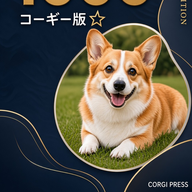
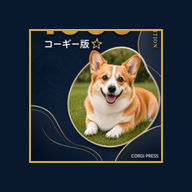
Add files via upload

diff --git a/index.html b/index.html
@@ -182,188 +182,203 @@ let questions=[],qi=0,mode='enja',answered=false,fillAnswer='',fillSentence='';
 function etymologyGuide(w){
   const en = String(w.en || "");
   const ja = String(w.ja || "");
-  const clean = en.replace(/[～~]/g,"").trim();
+  const clean = en.replace(/[～~]/g," ").replace(/\s+/g," ").trim();
   const lower = clean.toLowerCase();
 
-  // 「単語の意味を並べる」だけではなく、
-  // ①頭に浮かぶ場面 → ②単語の動き → ③熟語の意味
-  // の順で覚えられるようにする。
-  const special = {
-    "look forward to ～":"目線を「前（forward）」に向けて、これから来るものを待っている場面。→ 先の楽しみを待つ →「～を楽しみに待つ」",
-    "take care of ～":"care＝「注意・気づかい」を take＝「自分の側に持ってくる」。→ ～に注意を向けて面倒を見る →「～の世話をする」",
-    "give up ～":"up は「上へ」。手に持っていたものを上へ放り出して手放す場面。→「もう続けない」→「～をあきらめる」",
-    "give in":"in は「中へ」。抵抗していた人が相手側へ入ってしまう場面。→ 抵抗をやめる →「屈する」",
-    "get over ～":"over は「～を越えて」。目の前の山や障害を越えて向こう側へ行く場面。→ 障害を乗り越える →「～を克服する」",
-    "get through ～":"through は「～を通り抜けて」。トンネルを最後まで通り抜ける場面。→ 困難な期間を通り抜ける →「～を切り抜ける」",
-    "go through ～":"through は「～を通り抜けて」。自分がその中を実際に通っていく場面。→ 苦しい経験の中を通る →「～を経験する」",
-    "come up with ～":"up は「上へ」、with は「一緒に」。頭の中からアイデアを上へ持ち上げ、手元に持ってくる感じ。→「アイデアを思いつく」",
-    "find out ～":"out は「外へ」。隠れていた情報を外へ引っぱり出して見つける場面。→ 調べて真相を出す →「～を知る・見つけ出す」",
-    "figure out ～":"figure は「数字・形を考える」、out は「外へ」。頭の中で考え抜いて答えを外に出す感じ。→「理解する・解決する」",
-    "point out ～":"point は指を「指す」。out は「外へ」。大事なところを外に向けて指し示す場面。→「～を指摘する」",
-    "put off ～":"off は「離れて」。予定していたことをいったん遠くへ押しやる場面。→「～を延期する」",
-    "put on ～":"on は「接触して」。服を体に乗せてくっつける場面。→「～を身につける」",
-    "take off ～":"off は「離れて」。身についた服を体から離す場面。→「～を脱ぐ」。飛行機なら地面から離れるので「離陸する」",
-    "turn on ～":"on は「接触・作動」。スイッチをカチッと入れて機械を作動させる場面。→「～をつける」",
-    "turn off ～":"off は「離れて・停止」。スイッチを切って作動状態から離す場面。→「～を消す・止める」",
-    "set up ～":"up は「上へ・完成した状態へ」。材料を立てたり配置したりして、使える状態まで作り上げる場面。→「～を設立する・準備する」",
-    "pick up ～":"up は「上へ」。床などにある物をつまんで持ち上げる場面。→「拾う」。人なら「車などに乗せる」",
-    "carry out ～":"carry は「運ぶ」、out は「外へ」。考えや計画を頭の中だけに置かず、外へ運び出して実際に行う感じ。→「～を実行する」",
-    "bring about ～":"bring は「持ってくる」、about は「周りへ」。ある結果をこちらへ持ってくる感じ。→「～を引き起こす」",
-    "call off ～":"call は「呼ぶ」、off は「離す・取り消す」。予定していたものを呼び戻して、その場から外す感じ。→「～を中止する」",
-    "do away with ～":"do away は「なくしてしまう」というまとまり。邪魔なものをその場から消してしまう場面。→「～を取り除く・廃止する」",
-    "put up with ～":"up は「上へ」、with は「一緒に」。嫌なものを「一緒に抱えて」持ち上げたまま耐える感じ。→「～を我慢する」",
-    "look into ～":"into は「～の中へ」。箱の中をのぞき込むように、問題の中身を詳しく見る場面。→「～を調べる」",
-    "look for ～":"for は「～を求めて」。目的のものを探して目を動かしている場面。→「～を探す」",
-    "ask for ～":"for は「～を求めて」。欲しいものに向かって「ください」と求める場面。→「～を求める」",
-    "depend on ～":"depend は「ぶら下がる」イメージ。on は「～に接して」。何かにぶら下がって支えてもらう場面。→「～に頼る・～しだいである」",
-    "rely on/upon ～":"rely は「頼る」。on は「～に乗って」。何かに体重を預けて支えてもらう場面。→「～に頼る」",
-    "focus on ～":"focus は「焦点を合わせる」。on は「～に向けて」。カメラのピントを一点に合わせる場面。→「～に集中する」",
-    "consist of ～":"consist は「成り立つ」、of は「～から」。全体を開けてみると、その中身が部品として入っている場面。→「～から成り立っている」",
-    "be afraid of ～":"afraid は「怖がっている状態」。of は「その恐怖の対象」を指す。→「～を恐れている」",
-    "be interested in ～":"interested は「興味を向けている状態」。in は「～の中に」。興味がその世界の中に入り込んでいる感じ。→「～に興味がある」",
-    "be good at ～":"good は「うまい・得意」。at は「その対象に向けて」。ある対象に対して力を発揮できる場面。→「～が得意である」",
-    "pay attention to ～":"attention は「注意」。pay は「支払う」。注意というコインを対象に支払う感じ。→「～に注意を払う」",
-    "fall in love with ～":"fall は「落ちる」。in は「～の中へ」。love の中へストンと落ちる場面。→「恋に落ちる・大好きになる」",
-    "make up one's mind":"make は「作る」。mind は「心・考え」。頭の中に結論を作って固定する場面。→「決心する」",
-    "make sense":"sense は「意味・道理」。make＝「作る」なので、バラバラの情報が「意味のある形になる」感じ。→「意味をなす・筋が通る」",
-    "make a mistake":"mistake は「間違い」。make は「作る」。意図せず「間違いを作ってしまう」感じ。→「間違いをする」",
-    "take place":"place は「場所」。take＝「取る・占める」。出来事がその場所を取る＝その場で起こるイメージ。→「起こる・催される」",
-    "keep one's promise/word":"keep は「保つ・守る」。promise/word は「約束」。約束をそのまま守り続ける場面。→「約束を守る」",
-    "get lost":"get は「～の状態になる」。lost は「道を失った」。→「道に迷った状態になる」→「道に迷う」",
-    "be likely to do":"likely は「ありそうな」。未来へ向かう可能性が高い状態。→「…しそうである」",
-    "be about to do":"about to do は「今まさに～へ向かうところ」。行動の直前に立っている場面。→「今にも…しようとしている」",
-    "used to do/be":"昔はその状態・習慣が続いていたが、今はもう違う、という「過去の定位置」を思い浮かべる。→「昔は～したものだった」"
-  };
-
+  // 語源・イメージ解説の方針
+  // ①中心となる動詞そのものの基本イメージ
+  // ②前置詞・副詞などの基本イメージ
+  // ③それらが熟語の中でどう組み合わさるか
+  // ④実際の熟語の意味・使われ方
+  // ※分かりにくい説明や、意味につながらない豆知識は省く。
   const verbImages = {
-    be:["be","「～である・～の状態にある」","その状態にいる"],
-    look:["look","「目を向ける」","目線を向ける"],
-    take:["take","「手に取る」","自分の側へ取る"],
-    give:["give","「手渡す」","相手側へ渡す"],
-    get:["get","「手に入れる・状態になる」","何かを得る／ある状態になる"],
-    go:["go","「行く」","その方向へ進む"],
-    come:["come","「来る」","こちらへ近づく"],
-    put:["put","「置く」","ある場所に置く"],
-    make:["make","「作る」","何かを形にする"],
-    bring:["bring","「持ってくる」","こちらへ運ぶ"],
-    carry:["carry","「運ぶ」","ある場所から別の場所へ運ぶ"],
-    keep:["keep","「保つ・持ち続ける」","そのまま維持する"],
-    hold:["hold","「持つ・支える」","手で支えている"],
-    set:["set","「置く・整える」","位置を決めて整える"],
-    turn:["turn","「向きを変える・回す」","方向を変える"],
-    break:["break","「壊す・破る」","つながりを切る"],
-    call:["call","「呼ぶ」","声をかけて呼び寄せる"],
-    run:["run","「走る・動く」","動き続ける"],
-    stand:["stand","「立つ」","その場に立っている"],
-    fall:["fall","「落ちる」","下へ落ちる"],
-    find:["find","「見つける」","隠れていたものを発見する"],
-    think:["think","「考える」","頭の中で思い浮かべる"],
-    care:["care","「気にかける」","注意を向けて世話する"],
-    ask:["ask","「尋ねる・求める」","相手に求める"],
-    pay:["pay","「支払う」","代わりに何かを差し出す"],
-    play:["play","「演じる・行う」","役割を演じる"],
-    lead:["lead","「導く・先頭に立つ」","前へ導く"],
-    depend:["depend","「ぶら下がる・頼る」","何かに支えてもらう"],
-    rely:["rely","「頼る」","相手に体重を預ける"],
-    focus:["focus","「焦点を合わせる」","一点にピントを合わせる"],
-    refer:["refer","「向ける・言及する」","話題をある対象へ向ける"],
-    consist:["consist","「成り立つ」","いくつかの要素で全体を作る"],
-    prepare:["prepare","「準備する」","先に整えておく"],
-    search:["search","「探す」","目的物を探し回る"],
-    succeed:["succeed","「成功する・後に続く」","目標に届く"],
-    contribute:["contribute","「差し出す・貢献する」","全体のために何かを出す"],
-    prevent:["prevent","「防ぐ」","前に立って進行を止める"],
-    remind:["remind","「思い出させる」","記憶をもう一度呼び戻す"],
-    regard:["regard","「みなす・見る」","あるものを別の見方で見る"],
-    associate:["associate","「結びつける」","2つを一緒に思い浮かべる"],
-    inform:["inform","「知らせる」","情報を相手に渡す"]
+    be:["be","～である・～の状態にある"],
+    look:["look","目を向ける・見る"],
+    take:["take","手に取る・受け取る"],
+    give:["give","与える・手渡す"],
+    get:["get","手に入れる・～の状態になる"],
+    go:["go","行く・進む"],
+    come:["come","来る・近づく"],
+    put:["put","置く"],
+    make:["make","作る・～にする"],
+    bring:["bring","持ってくる・もたらす"],
+    carry:["carry","運ぶ"],
+    keep:["keep","保つ・持ち続ける"],
+    hold:["hold","持つ・支える"],
+    set:["set","置く・整える"],
+    turn:["turn","向きを変える・回す"],
+    break:["break","壊す・破る"],
+    call:["call","呼ぶ"],
+    run:["run","走る・動く"],
+    stand:["stand","立つ"],
+    fall:["fall","落ちる"],
+    find:["find","見つける"],
+    think:["think","考える・思う"],
+    care:["care","気にかける・気にする"],
+    ask:["ask","尋ねる・求める"],
+    pay:["pay","支払う"],
+    play:["play","演じる・行う"],
+    lead:["lead","導く・先頭に立つ"],
+    depend:["depend","頼る・～次第である"],
+    rely:["rely","頼る"],
+    focus:["focus","焦点を合わせる・集中させる"],
+    refer:["refer","向ける・言及する"],
+    consist:["consist","成り立つ"],
+    prepare:["prepare","準備する"],
+    search:["search","探す・捜す"],
+    succeed:["succeed","成功する・後に続く"],
+    contribute:["contribute","差し出す・貢献する"],
+    prevent:["prevent","防ぐ・妨げる"],
+    remind:["remind","思い出させる"],
+    regard:["regard","みなす・見る"],
+    associate:["associate","結びつける"],
+    inform:["inform","知らせる"],
+    suffer:["suffer","苦しむ・被る"],
+    result:["result","結果として生じる"],
+    graduate:["graduate","卒業する"],
+    differ:["differ","異なる"],
+    recover:["recover","回復する・取り戻す"],
+    hear:["hear","聞く"],
+    believe:["believe","信じる"],
+    major:["major","専攻する"],
+    abound:["abound","たくさんある・豊富である"],
+    insist:["insist","強く主張する"],
+    concentrate:["concentrate","集中する"],
+    complain:["complain","不平を言う・訴える"],
+    die:["die","死ぬ"],
+    amount:["amount","総計～になる"],
+    recover:["recover","回復する・立ち直る"]
   };
 
   const prepImages = {
-    to:["to","「～へ・～に」","矢印が対象へ向かう ↗"],
-    of:["of","「～の・～を対象として」","対象とのつながりを示す"],
-    on:["on","「～の上に・～に接して」","何かに乗る／接する"],
-    upon:["upon","「on と同じく接して」","対象の上・接点に乗る"],
-    in:["in","「～の中に・～の状態で」","箱の中に入るイメージ 📦"],
-    at:["at","「～に・～の地点で」","一点をピンポイントで指す 🎯"],
-    for:["for","「～のために・～を求めて」","目的へ向かう矢印 →"],
-    from:["from","「～から」","出発点から離れる ←"],
-    with:["with","「～と一緒に」","2つを一緒にする 🤝"],
-    about:["about","「～について・周りに」","対象の周りをぐるっと見る"],
-    into:["into","「～の中へ」","外から中へ入る ↘"],
-    over:["over","「～を越えて・上を」","山を越えて向こう側へ ⛰"],
-    through:["through","「～を通り抜けて」","トンネルを端から端まで通る"],
-    off:["off","「離れて・停止して」","くっついた所から離れる"],
-    up:["up","「上へ・完成した状態へ」","下から上へ持ち上げる ↑"],
-    down:["down","「下へ・落ち着いて」","上から下へ下がる ↓"],
-    after:["after","「～の後に・追って」","前を追いかける"],
-    before:["before","「～の前に」","時間・位置の前に立つ"],
-    against:["against","「～に対して・反して」","壁などにぶつかる／逆らう"],
-    by:["by","「～によって・そばに」","そばの人・手段を使う"],
-    along:["along","「～に沿って」","道に沿って進む"],
-    around:["around","「～の周りに」","ぐるっと囲む"],
-    ahead:["ahead","「前方に・先に」","前方の地点を見る ↗"],
-    apart:["apart","「離れて」","2つが離れる ↔"],
-    aside:["aside","「脇へ」","本線から横へよける"],
-    within:["within","「～以内に・内側に」","境界線の内側にいる"],
-    despite:["despite","「～にもかかわらず」","障害があっても進む"]
+    to:["to","～へ・～に","対象へ向かう"],
+    of:["of","～の・～を対象として","対象とのつながりを示す"],
+    on:["on","～の上に・～に接して","対象に乗る・接する"],
+    upon:["upon","～の上に・～に接して","on と同じく対象に接する"],
+    in:["in","～の中に・～の状態で","中に入る"],
+    at:["at","～に・～の地点で","一点に向ける"],
+    for:["for","～のために・～を求めて","目的・対象へ向かう"],
+    from:["from","～から","出発点から離れる"],
+    with:["with","～と一緒に・～を伴って","対象と一緒にする"],
+    about:["about","～について・～の周りに","対象を中心にする"],
+    into:["into","～の中へ","外から中へ入る"],
+    over:["over","～を越えて・～の上を","上を越えて向こう側へ行く"],
+    through:["through","～を通り抜けて","中を通って反対側へ行く"],
+    off:["off","離れて・停止して","接触した状態から離れる"],
+    up:["up","上へ・完成した状態へ","上へ／完成へ向かう"],
+    down:["down","下へ・落ち着いて","下へ／落ち着いた状態へ向かう"],
+    after:["after","～の後に・～を追って","後ろから追う"],
+    before:["before","～の前に","前に位置する"],
+    against:["against","～に対して・反して","対象にぶつかる／逆らう"],
+    by:["by","～によって・～のそばに","手段・そばの対象を示す"],
+    along:["along","～に沿って","線や道に沿って進む"],
+    around:["around","～の周りに","周囲を回る"],
+    within:["within","～以内に・～の内側に","境界の内側にいる"]
   };
 
-  const parts = [];
+  const special = {
+    "look forward to": {verb:"look", prep:"to", middle:"目を向ける先を forward（前）に置く", use:"これから来るものへ目を向けて待つので、「～を楽しみに待つ」という意味で使われる。"},
+    "take care of": {verb:"take", prep:"of", middle:"take（手に取る）＋care（気づかい）で、対象への気づかいを引き受ける", use:"人や物の面倒を引き受ける場面で「～の世話をする／～に気をつける」と使われる。"},
+    "give up": {verb:"give", prep:"up", middle:"give（手渡す）＋up（上へ・手放す方向）で、持っているものを手放す", use:"続けていたことを手放す場面で「～をあきらめる／やめる」と使われる。"},
+    "get over": {verb:"get", prep:"over", middle:"get（～の状態になる）＋over（～を越えて）で、障害の向こう側へ移る", use:"困難や病気などを乗り越えて回復する場面で「～を克服する」と使われる。"},
+    "get through": {verb:"get", prep:"through", middle:"get（～の状態になる）＋through（通り抜けて）で、困難の中を通り抜ける", use:"困難な期間を無事に通り抜ける場面で「～を切り抜ける」と使われる。"},
+    "go through": {verb:"go", prep:"through", middle:"go（行く）＋through（通り抜けて）で、その中を通っていく", use:"経験や苦しい出来事の中を通る場面で「～を経験する」と使われる。"},
+    "come up with": {verb:"come", prep:"up", middle:"come（来る）＋up（上へ）で、考えが頭の中から上がってくる。with は「一緒に」", use:"考えやアイデアが出てきて、それを持ってくる場面で「～を思いつく」と使われる。"},
+    "find out": {verb:"find", prep:"out", middle:"find（見つける）＋out（外へ）で、隠れていた情報を外へ出して見つける", use:"調べて事実や答えを知る場面で「～を知る／見つけ出す」と使われる。"},
+    "figure out": {verb:"figure", prep:"out", middle:"figure（考えて答えを出す）＋out（外へ）で、考えた結果を答えとして外へ出す", use:"問題の答えや意味を考えて分かる場面で「～を理解する／解決する」と使われる。"},
+    "point out": {verb:"point", prep:"out", middle:"point（指す）＋out（外へ）で、大事な点を外に向けて示す", use:"重要なことを相手にはっきり示す場面で「～を指摘する」と使われる。"},
+    "put off": {verb:"put", prep:"off", middle:"put（置く）＋off（離れて）で、予定していたことを遠くへ置く", use:"予定を先へ延ばす場面で「～を延期する」と使われる。"},
+    "put on": {verb:"put", prep:"on", middle:"put（置く）＋on（接して）で、体に何かを置いて接触させる", use:"服などを身につける場面で「～を着る／身につける」と使われる。"},
+    "take off": {verb:"take", prep:"off", middle:"take（手に取る）＋off（離れて）で、身についたものを体から離す", use:"服なら「～を脱ぐ」、飛行機なら地面から離れるので「離陸する」と使われる。"},
+    "turn on": {verb:"turn", prep:"on", middle:"turn（向きを変える・作動させる）＋on（接して）で、作動する側へ切り替える", use:"スイッチなどを作動させる場面で「～をつける」と使われる。"},
+    "turn off": {verb:"turn", prep:"off", middle:"turn（向きを変える）＋off（離れて・停止して）で、作動状態から切り離す", use:"スイッチなどを停止させる場面で「～を消す／止める」と使われる。"},
+    "set up": {verb:"set", prep:"up", middle:"set（置く・整える）＋up（完成した状態へ）で、使える形に整える", use:"設備や組織などを作って使える状態にする場面で「～を設立する／準備する」と使われる。"},
+    "pick up": {verb:"pick", prep:"up", middle:"pick（つまみ取る）＋up（上へ）で、下にあるものをつまんで持ち上げる", use:"物なら「拾う」、人なら「車などに乗せる」という意味で使われる。"},
+    "carry out": {verb:"carry", prep:"out", middle:"carry（運ぶ）＋out（外へ）で、考えや計画を外へ運び出す", use:"計画などを実際の行動に移す場面で「～を実行する」と使われる。"},
+    "bring about": {verb:"bring", prep:"about", middle:"bring（もたらす）＋about（周り・対象へ）で、ある結果をもたらす", use:"変化や結果を起こす場面で「～を引き起こす」と使われる。"},
+    "look into": {verb:"look", prep:"into", middle:"look（見る）＋into（中へ）で、中をのぞき込む", use:"問題の中身を詳しく調べる場面で「～を調べる」と使われる。"},
+    "look for": {verb:"look", prep:"for", middle:"look（目を向ける）＋for（～を求めて）で、目的のものへ目を向けて探す", use:"目的の人・物を探す場面で「～を探す」と使われる。"},
+    "ask for": {verb:"ask", prep:"for", middle:"ask（求める）＋for（～を求めて）で、対象を求める", use:"物や助けなどを相手に求める場面で「～を求める」と使われる。"},
+    "depend on": {verb:"depend", prep:"on", middle:"depend（頼る）＋on（～に接して）で、対象に支えてもらう", use:"何かに頼ったり、条件によって決まったりする場面で「～に頼る／～次第である」と使われる。"},
+    "rely on": {verb:"rely", prep:"on", middle:"rely（頼る）＋on（～に接して）で、対象に支えてもらう", use:"人や物を頼りにする場面で「～に頼る」と使われる。"},
+    "focus on": {verb:"focus", prep:"on", middle:"focus（焦点を合わせる）＋on（～に向けて）で、対象に焦点を合わせる", use:"注意や意識を一つの対象へ集中させる場面で「～に集中する」と使われる。"},
+    "consist of": {verb:"consist", prep:"of", middle:"consist（成り立つ）＋of（～から）で、何が材料・構成要素なのかを示す", use:"全体が何からできているかを説明する場面で「～から成り立っている」と使われる。"},
+    "pay attention to": {verb:"pay", prep:"to", middle:"pay（支払う）＋attention（注意）で、注意を対象へ『支払う』", use:"意識を対象へ向ける場面で「～に注意を払う」と使われる。"},
+    "fall in love with": {verb:"fall", prep:"in", middle:"fall（落ちる）＋in（中へ）で、love の中へ落ちる", use:"誰か・何かに強く心を惹かれる場面で「恋に落ちる／大好きになる」と使われる。"}
+  };
+
   const tokens = clean.split(/\s+/).filter(Boolean);
   const stripped = tokens.map(x => x.replace(/^[.,;:!?()[\]{}]+|[.,;:!?()[\]{}]+$/g,""));
   const lowTokens = stripped.map(x => x.toLowerCase());
 
-  // 特殊説明がある熟語は、その「場面」を主役にする。
-  if (special[lower]) {
+  // be likely to do / be about to do など、to が不定詞になる表現は前置詞として扱わない。
+  const isInfinitiveTo = (i) => lowTokens[i] === "to" && ["do","be","have","go","come","get","make","take","see","know","say","tell","use","keep","give","find","learn","help","try","work","live","look","become","feel","become"].includes(lowTokens[i+1]);
+
+  // 熟語の先頭にある中心動詞を優先して探す。
+  let verb = null;
+  let verbIndex = -1;
+  for (let i=0;i<lowTokens.length;i++) {
+    if (verbImages[lowTokens[i]]) { verb=lowTokens[i]; verbIndex=i; break; }
+  }
+
+  // special にない語でも、既知の動詞＋前置詞なら4段構成で説明する。
+  const prepKeys = Object.keys(prepImages);
+  let prep = null;
+  let prepIndex = -1;
+  for (let i=Math.max(0,verbIndex+1);i<lowTokens.length;i++) {
+    if (prepKeys.includes(lowTokens[i]) && !isInfinitiveTo(i)) { prep=lowTokens[i]; prepIndex=i; break; }
+  }
+
+  const sp = special[lower] || special[lower.replace(/\s*\/\s*upon/g," on").replace(/\s*\/\s*u?pon/g," on")];
+  const actualVerb = sp?.verb || verb;
+  const actualPrep = sp?.prep || prep;
+  const parts = [];
+
+  if (actualVerb && verbImages[actualVerb]) {
+    const v = verbImages[actualVerb];
+    parts.push({label:"① 動詞そのもの", text:`${v[0]} ＝「${v[1]}」`});
+  }
+
+  if (actualPrep && prepImages[actualPrep]) {
+    const p = prepImages[actualPrep];
+    parts.push({label:"② 前置詞・副詞", text:`${p[0]} ＝「${p[1]}」。${p[2]}というイメージ。`});
+  }
+
+  if (sp) {
+    parts.push({label:"③ 熟語での組み合わせ", text:sp.middle});
+    parts.push({label:"④ 実際の使われ方", text:sp.use});
     return {
-      summary: special[lower],
-      parts: []
+      summary:`${clean} は、${actualVerb ? verbImages[actualVerb][1] : "中心語の意味"} に ${actualPrep && prepImages[actualPrep] ? prepImages[actualPrep][1] : "語の意味"} が加わった表現。熟語では「${ja}」という意味で使われる。`,
+      parts
     };
   }
 
-  // 動詞＋前置詞のときは、単語の辞書訳ではなく「動き」で説明。
-  let verbIndex = -1;
-  for (let i=0;i<lowTokens.length;i++){
-    if (verbImages[lowTokens[i]]) { verbIndex=i; break; }
+  if (actualVerb && actualPrep) {
+    const v = verbImages[actualVerb];
+    const p = prepImages[actualPrep];
+    const meaning = ja.replace(/\s+/g," ").trim();
+    parts.push({label:"③ 熟語での組み合わせ", text:`${actualVerb} の「${v[1]}」を、${actualPrep} の「${p[1]}」の方向・関係に合わせると、「${meaning}」につながる。`});
+    parts.push({label:"④ 実際の使われ方", text:`${clean} は、${meaning} という意味の熟語として使われる。`});
+    return {
+      summary:`${actualVerb} の基本の意味を残したまま、${actualPrep} が対象との関係や方向を加えて、熟語全体の意味になります。`,
+      parts
+    };
   }
 
-  if (verbIndex >= 0) {
-    const v = lowTokens[verbIndex];
-    const vi = verbImages[v];
-    parts.push({label:"① 動詞の動き", text:`${vi[0]}＝${vi[1]}。${vi[2]}。`});
-  }
-
-  // 前置詞を最初から順に拾う（to do の to は不定詞なので除外）。
-  const prepKeys = Object.keys(prepImages);
-  for (let i=0;i<lowTokens.length;i++){
-    const t=lowTokens[i];
-    if (prepKeys.includes(t) && !(t==="to" && ["do","be"].includes(lowTokens[i+1]))) {
-      const p=prepImages[t];
-      parts.push({label:"② 前置詞のイメージ", text:`${p[0]}＝${p[1]}。${p[2]}。`});
-      // 最重要の前置詞を1つだけ主役にして、説明が長くなりすぎないようにする。
-      break;
-    }
-  }
-
-  // 形容詞・名詞などの中心語。
-  const ignore = new Set(["a","an","the","of","to","on","in","at","for","from","with","about","and","or","as","by","up","down"]);
-  const other = stripped.filter((x,i)=>!ignore.has(x.toLowerCase()) && i!==verbIndex);
-  if (other.length){
-    const center = other.slice(0,3).map(x=>`「${x}」`).join("＋");
-    parts.push({label:"③ 中心となる語", text:`${center} が表す内容を、上の「動き・位置」に乗せる。`});
-  }
-
+  // 動詞＋前置詞でない表現は、無理に語源を作らず簡潔に説明する。
   const meaning = ja.replace(/\s+/g," ").trim();
-  let summary = parts.length
-    ? `まず英語を「動きのある場面」として想像しよう。${parts.map(p=>p.text).join(" → ")} → 日本語の「${meaning}」につながる。`
-    : `「${clean}」を単語ごとに直訳するより、ひとつの場面として想像すると覚えやすい。意味は「${meaning}」。`;
+  if (verb && verbImages[verb]) {
+    parts.push({label:"① 中心となる動詞", text:`${verb} ＝「${verbImages[verb][1]}」`});
+    parts.push({label:"② 熟語での使われ方", text:`この熟語では、その動詞の基本イメージをもとに「${meaning}」という意味で使われる。`});
+    return {summary:`中心となる ${verb} の意味を押さえて、「${meaning}」につなげて覚えよう。`,parts};
+  }
 
-  // 語源（歴史）とイメージ（記憶法）を混同しないよう明示。
-  summary = `💡 覚え方：${summary}`;
-
-  return {summary, parts};
+  return {
+    summary:`「${clean}」は単語を無理に直訳するより、熟語全体をひとまとまりとして「${meaning}」と覚えるのが分かりやすい。`,
+    parts:[]
+  };
 }
+
 function save(){localStorage.setItem('jukugo_stats_v4',JSON.stringify(stats))}
 function esc(s){return String(s??'').replace(/[&<>"']/g,c=>({'&':'&amp;','<':'&lt;','>':'&gt;','"':'&quot;',"'":'&#39;'}[c]))}
 function shuffle(a){return a.sort(()=>Math.random()-.5)}

diff --git a/sw.js b/sw.js
@@ -1,4 +1,4 @@
-const CACHE_NAME = 'jukugo-ai-pwa-v6';
+const CACHE_NAME = 'jukugo-ai-pwa-v5';
 const CORE = ['./','./index.html','./manifest.json','./icon-192.png','./icon-512.png'];
 self.addEventListener('install', event => {
   event.waitUntil(caches.open(CACHE_NAME).then(cache => cache.addAll(CORE)).then(() => self.skipWaiting()));
